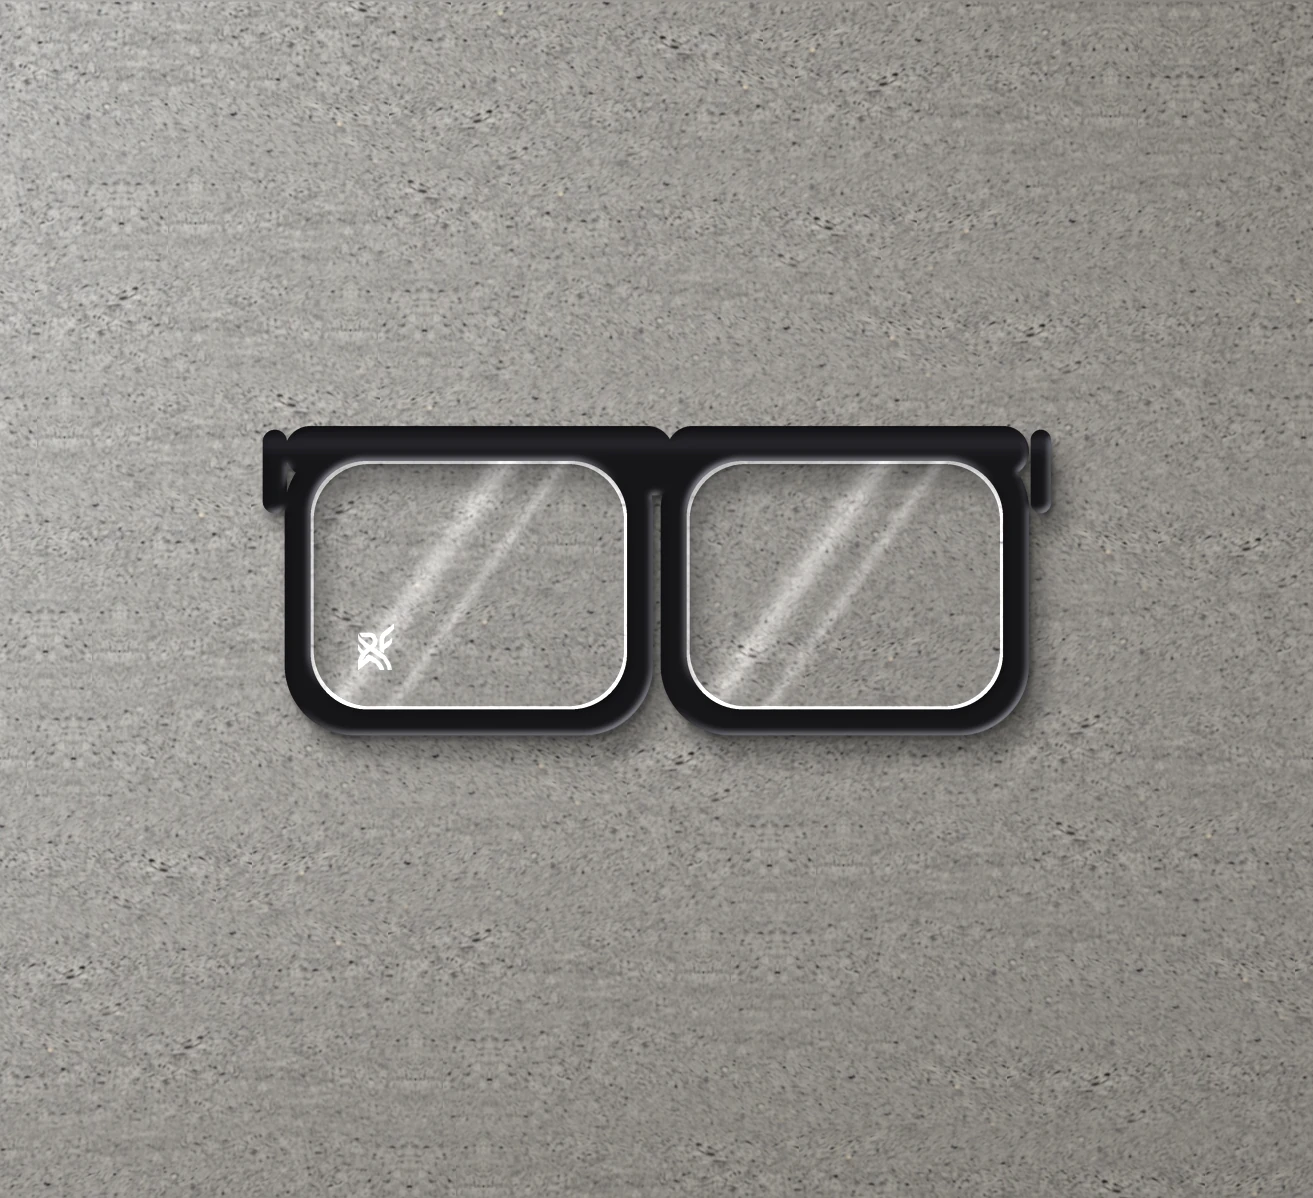
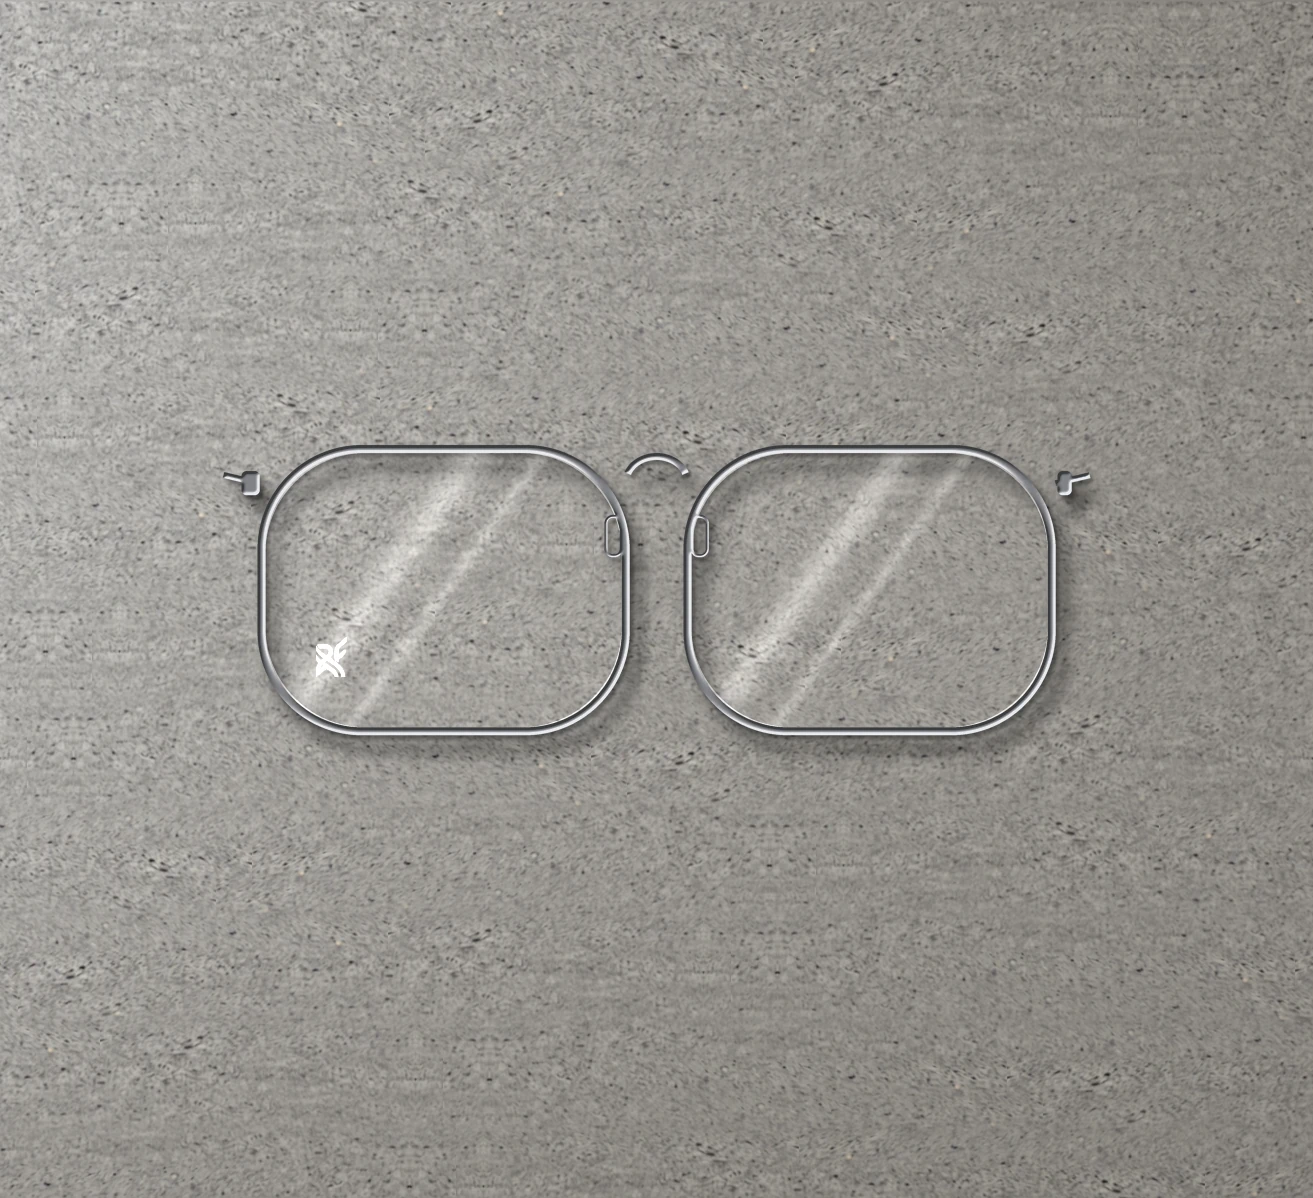
Shop: glasses with thin silver wire frame instead of thick black rim
Claude-Session: https://claude.ai/code/session_01SvR88MGxi4C38PM8FVmus1

Changed region(s): [[0.1561, 0.3397, 0.8431, 0.6486]]

diff --git a/shop/index.html b/shop/index.html
@@ -386,8 +386,8 @@
     { id: 'rf8', type: 'tshirt', name: 'Rare Form Waffle Long Sleeve (Weiß)', price: 29.99, color: '#f4f2ee', img: 'fotos/rare-form-longsleeve.webp', sizes: ['XS','S','M','XL','XXL'],
       desc: 'Langarmshirt in Weiß aus Waffelstrick, locker und kurz geschnitten. Schriftzug entlang beider Ärmel und ein kleines Rare-Form-Logo auf der Brust.' },
     // PLATZHALTER: Name und Material der Brille (Preis 29,99 € laut Auftrag); gerendertes Produktbild, kein Foto
-    { id: 'rf9', type: 'zubehoer', name: 'Rare Form Clear Glasses', price: 29.99, color: '#161619', img: 'fotos/rare-form-glasses.webp', allSizes: ['Einheitsgröße'], sizes: ['Einheitsgröße'],
-      desc: 'Brille mit klaren Gläsern ohne Sehstärke (Fensterglas-Look) und schwarzem Rahmen. Das Rare-Form-Logo ist ins Glas graviert.' },
+    { id: 'rf9', type: 'zubehoer', name: 'Rare Form Clear Glasses', price: 29.99, color: '#c9c9c9', img: 'fotos/rare-form-glasses.webp', allSizes: ['Einheitsgröße'], sizes: ['Einheitsgröße'],
+      desc: 'Klassische Brille mit klaren Gläsern ohne Sehstärke (Fensterglas-Look) und dünnem Metallrahmen in Silber. Das Rare-Form-Logo ist ins Glas graviert.' },
     // PLATZHALTER: Preis und Größen des Gürtels sind noch nicht bestätigt
     { id: 'rf5', type: 'zubehoer', name: 'Urban Artifacts Belt (Black)', price: 19.99, color: '#232323', img: 'fotos/urban-artifacts-belt.webp', allSizes: ['S','M','L'], sizes: ['S','M','L'],
       desc: 'Schwarzer Gürtel mit zwei Reihen Ösen, grauen Ziernähten und gunmetal-farbener Schnalle. Dazu zwei D-Ringe, ein Karabiner und ein gesticktes „Urban Artifacts“-Label.' },
@@ -430,7 +430,7 @@
   },
   "rf9": {
     "name": "Rare Form Clear Glasses",
-    "desc": "Glasses with clear lenses, no prescription (non-prescription look), and a black frame. The Rare Form logo is engraved into the glass."
+    "desc": "Classic glasses with clear lenses, no prescription (non-prescription look), and a thin silver metal frame. The Rare Form logo is engraved into the glass."
   },
   "rf7": {
       "name": "Rare Form Texture Powder",
